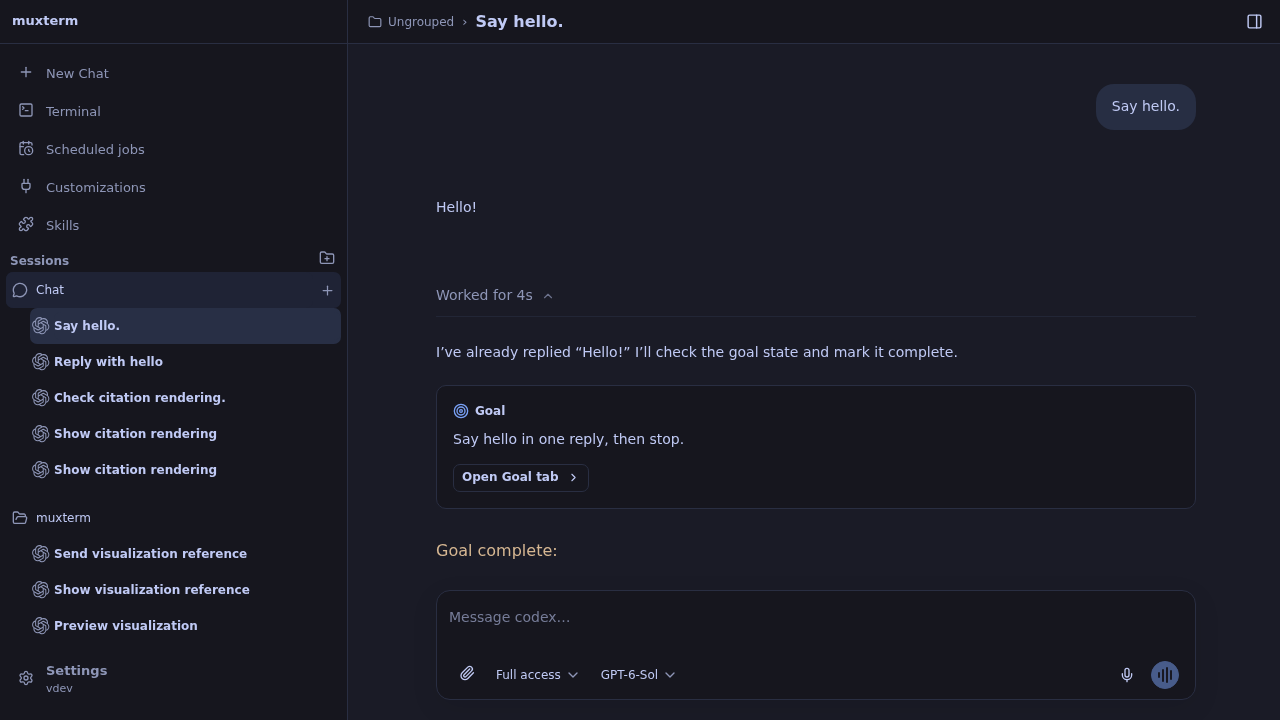
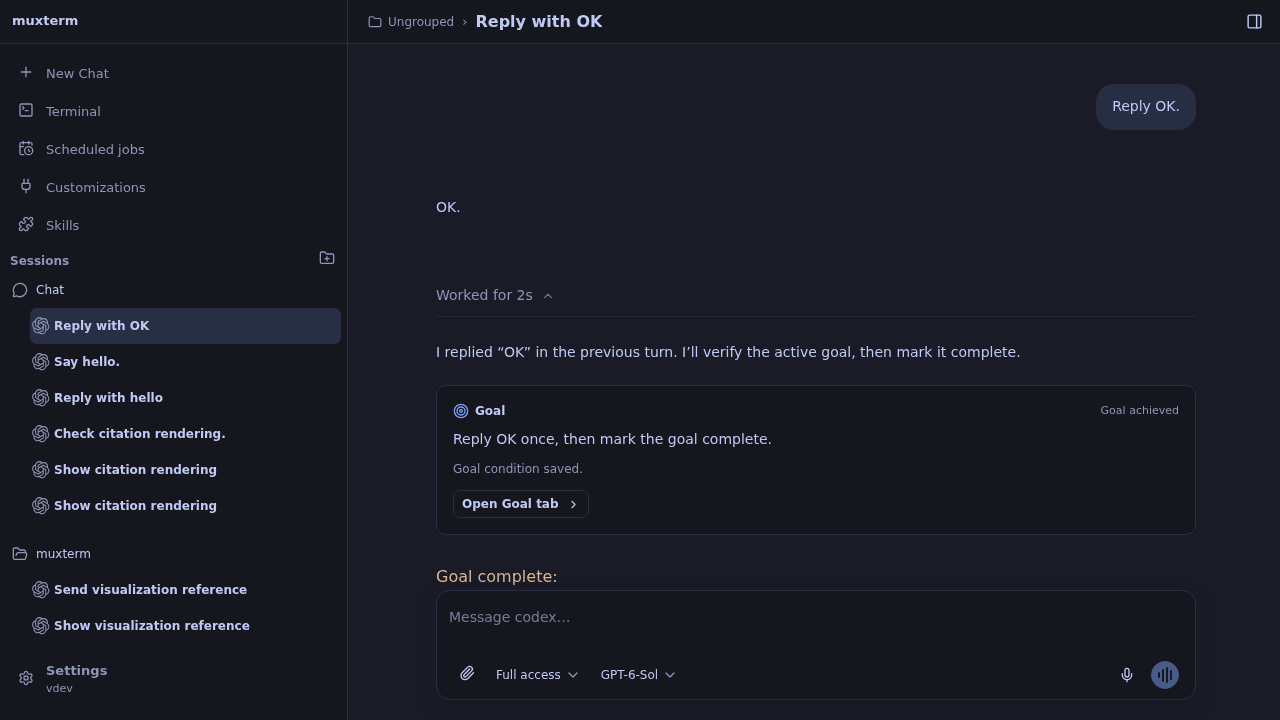
Keep goal updates with their matching turn

diff --git a/web/src/components/mux-sdk-chat.ts b/web/src/components/mux-sdk-chat.ts
@@ -460,6 +460,7 @@ export class MuxSDKChat extends LitElement {
     .goal-response { border:1px solid var(--ui-border); border-radius:var(--ui-radius-lg); padding:var(--ui-space-6); background:var(--ui-surface-raised); }
     .goal-response header { display:flex; align-items:center; gap:var(--ui-space-3); color:var(--ui-text); font-size:var(--ui-text-sm); font-weight:650; }
     .goal-response header svg { color:var(--ui-accent); }
+    .goal-response-state { margin-left:auto; color:var(--ui-text-muted); font-size:var(--ui-text-xs); font-weight:400; text-align:right; }
     .goal-response .text { margin:var(--ui-space-4) 0 0; overflow-wrap:anywhere; }
     .goal-response .text > :first-child { margin-top:0; }
     .goal-response .text > :last-child { margin-bottom:0; }
@@ -2176,13 +2177,25 @@ export class MuxSDKChat extends LitElement {
     for (let i = before - 1; i >= 0; i--) {
       if (result[i].work) { workIndex = i; break; }
     }
-    if (workIndex < 0) workIndex = result.findIndex(row => !!row.work);
+    if (workIndex >= 0 && Number.isFinite(stamp)) {
+      const finished = this.turnFinished.get(result[workIndex].block.turn);
+      if (finished !== undefined && finished < stamp) workIndex = -1;
+    }
+    if (workIndex < 0 && Number.isFinite(stamp)) {
+      // A goal that starts a turn may arrive just before its work row. Older
+      // goals stay at their own timestamp instead of joining unrelated work.
+      workIndex = result.findIndex((row, i) => {
+        if (i < before || !row.work) return false;
+        const started = this.turnStarted.get(row.block.turn) ?? Date.parse(row.block.at || '');
+        return Number.isFinite(started) && started >= stamp && started - stamp <= 30_000;
+      });
+    }
     if (workIndex >= 0) {
       const row = result[workIndex];
       goal.turn = row.block.turn;
       result[workIndex] = {...row, work:[...row.work!, goal]};
     } else {
-      goal.turn = result.at(-1)?.block.turn ?? this.currentTurn;
+      goal.turn = -1;
       result.splice(before, 0, {key:`work-goal-${receipt?.id || 'current'}`,block:goal,work:[goal]});
     }
     return result;
@@ -2399,7 +2412,16 @@ export class MuxSDKChat extends LitElement {
     const cleared = this.goalDocument?.state === 'cleared' && !condition;
     if (!this.goalDocument?.revisions.length && !this.commandNotice && !this.goalNotice) return nothing;
     const title = this.commandFailed ? 'Goal command failed' : cleared ? 'Goal cleared' : 'Goal';
-    return html`<section class="goal-response" aria-label="Goal response"><header>${icon(Target,{size:16})}<strong>${title}</strong></header>
+    const record = this.goalDocument;
+    const state = record?.humanPaused ? 'Paused by you'
+      : record?.receipts.some(receipt => receipt.status === 'dispatching') ? 'Applying goal change…'
+      : record && record.requestedRevision > record.appliedRevision ? 'Goal change requested'
+      : record?.state === 'active' || record?.state === 'continuing' ? 'Pursuing goal'
+      : record?.state === 'complete' || record?.state === 'completed' || record?.state === 'achieved' ? 'Goal achieved'
+      : record?.state === 'uncertain' || record?.state === 'error' ? 'Goal needs review'
+      : record?.state === 'ended' ? 'Goal ended · outcome unknown'
+      : record?.state === 'paused' ? 'Paused goal' : '';
+    return html`<section class="goal-response" aria-label="Goal response"><header>${icon(Target,{size:16})}<strong>${title}</strong>${state ? html`<span class="goal-response-state">${state}</span>` : nothing}</header>
       ${condition ? html`<div class="text">${renderSegments(parseMarkdown(condition),chatMarkdownPolicy)}</div>` : nothing}
       ${this.commandNotice ? html`<p class="goal-response-note" role=${this.commandFailed ? 'alert' : 'status'}>${this.commandNotice}</p>` : nothing}
       ${this.goalNotice ? html`<p class="goal-response-note" role="alert">${this.goalNotice}</p>` : nothing}
